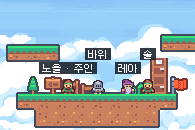
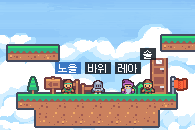
기획: 큰 토벌은 정해진 시각에 섬에 모인 사람이 출발, 섬 주인 이름표 정리
- 큰 토벌: 참가 걸기 없이 출발 시각에 섬 모임에 있는 사람 모두 (파티_상세.md 8-1, RaidB)
- 섬 손님 장면: '노을 · 주인' 대신 이름만, 주인은 파란 이름표

Claude-Session: https://claude.ai/code/session_011wjmSW2J3FkWighjJoEfMG

Changed region(s): [[0.1846, 0.3692, 0.5846, 0.5846]]

diff --git a/기획/시안/화면/RaidB.dc.html b/기획/시안/화면/RaidB.dc.html
@@ -23,16 +23,11 @@ a{color:#8CC4F5}a:hover{color:#B8DBFA}
       <svg width="22" height="22" viewBox="0 0 24 24" fill="none" stroke="currentColor" stroke-width="2" aria-hidden="true"><path d="M15 5 L8 12 L15 19"></path></svg></a>
     <div style="display: flex; flex-direction: column">
       <span style="font-family: 'Galmuri14', 'Galmuri11', sans-serif; font-size: 18px; font-weight: 700">큰 토벌 · 오늘의 기록</span>
-      <span style="font-size: 12px; color: #A7B3C2">하루 한 번 · 오늘 22:00에 모인 사람끼리 출발</span>
+      <span style="font-size: 12px; color: #A7B3C2; white-space: nowrap">노을의 섬 · 22:00에 모여 있는 사람이 출발</span>
     </div>
   </header>
 
   <main style="flex: 1; padding: 12px 14px; display: flex; flex-direction: column; gap: 10px; overflow: hidden">
-    <div role="tablist" aria-label="함께 갈 무리" style="display: grid; grid-template-columns: repeat(2, minmax(0, 1fr)); gap: 6px">
-      <sc-for list="{{groups}}" as="g" hint-placeholder-count="2">
-        <button type="button" role="tab" aria-selected="{{g.on}}" onClick="{{g.pick}}" style="min-height: 44px; border-radius: 10px; border: 2px solid {{g.border}}; background: {{g.bg}}; color: #E8EDF4; font-size: 13px; font-weight: 700; cursor: pointer; display: flex; flex-direction: column; align-items: center; justify-content: center">{{g.name}}<span style="font-size: 11px; font-weight: 400; color: #A7B3C2">{{g.sub}}</span></button>
-      </sc-for>
-    </div>
 
     <article style="background: #1A1F33; border: 1px solid #3A3F66; border-radius: 12px; padding: 12px 14px; display: flex; flex-direction: column; gap: 8px">
       <div style="display: flex; gap: 12px; align-items: center">
@@ -43,14 +38,14 @@ a{color:#8CC4F5}a:hover{color:#B8DBFA}
         </div>
       </div>
       <div style="display: grid; grid-template-columns: repeat(2, minmax(0, 1fr)); gap: 6px">
-        <div style="background: #262B48; border-radius: 8px; padding: 8px 10px; display: flex; flex-direction: column"><span style="font-size: 11px; color: #A7B3C2">{{g.name}} 최고 기록</span><span style="font-size: 16px; font-weight: 700; color: #F3D08A">{{g.best}}</span></div>
+        <div style="background: #262B48; border-radius: 8px; padding: 8px 10px; display: flex; flex-direction: column"><span style="font-size: 11px; color: #A7B3C2">최고 기록</span><span style="font-size: 16px; font-weight: 700; color: #F3D08A">{{g.best}}</span></div>
         <div style="background: #262B48; border-radius: 8px; padding: 8px 10px; display: flex; flex-direction: column"><span style="font-size: 11px; color: #A7B3C2">오늘 예상</span><span style="font-size: 16px; font-weight: 700">{{g.expect}} <span style="font-size: 12px; color: {{g.diffColor}}">{{g.diff}}</span></span></div>
       </div>
     </article>
 
     <section aria-label="오늘 참가" style="background: #151D29; border: 1px solid #263243; border-radius: 12px; padding: 10px 14px; display: flex; flex-direction: column; gap: 8px">
       <div style="display: flex; justify-content: space-between; align-items: baseline">
-        <span style="font-size: 14px; font-weight: 700">오늘 참가</span>
+        <span style="font-size: 14px; font-weight: 700">지금 섬에 모인 사람</span>
         <span style="font-size: 12px; color: #A7B3C2">{{count}} · 최대 8명</span>
       </div>
       <div style="display: grid; grid-template-columns: repeat(8, minmax(0, 1fr)); gap: 4px">
@@ -61,7 +56,7 @@ a{color:#8CC4F5}a:hover{color:#B8DBFA}
         </sc-for>
       </div>
       <button type="button" onClick="{{toggle}}" style="min-height: 46px; border-radius: 10px; border: {{btnBorder}}; background: {{btnBg}}; color: {{btnColor}}; font-size: 15px; font-weight: 700; cursor: pointer">{{btnText}}</button>
-      <span style="font-size: 12px; color: #A7B3C2; line-height: 1.5">걸어 두기만 하면 접속하지 않아도 돼요. 파티 프리셋으로 나가요.</span>
+      <span style="font-size: 12px; color: #A7B3C2; line-height: 1.5; white-space: nowrap">출발까지 2시간 14분 · 섬에 머물면 접속을 끊어도 돼요</span>
     </section>
 
     <section aria-label="기록 보상" style="background: #151D29; border: 1px solid #263243; border-radius: 12px; padding: 10px 14px; display: flex; flex-direction: column; gap: 8px">
@@ -104,13 +99,12 @@ a{color:#8CC4F5}a:hover{color:#B8DBFA}
 </x-dc>
 <script type="text/x-dc" data-dc-script data-props='{"$preview":{"width":390,"height":844}}'>
 class Component extends DCLogic {
-  constructor(props) { super(props); this.state = { g: 1, on: true, tip: -1 }; }
+  constructor(props) { super(props); this.state = { g: 0, on: true, tip: -1 }; }
   renderVals() {
     const K = '/_blob/05be44623edeece48a014d214caf38a7', R = '/_blob/c2e10fff92a559b32f281532a0025abb', W = '/_blob/65476abc18e3766f1b74c327719c3452';
     const fmt = (n) => n.toLocaleString('ko-KR');
     const G = [
-      { name: '길드', sub: '하늘등대 · 정해지면', best: 0, members: [], none: true },
-      { name: '섬 동행', sub: '노을의 섬 · 4명', best: 182400, members: [{ img: R, name: '노을' }, { img: K, name: '바위' }, { img: W, name: '레아' }] }
+            { name: '노을의 섬 모임', sub: '', best: 182400, members: [{ img: R, name: '노을' }, { img: K, name: '바위' }, { img: W, name: '레아' }] }
     ];
     const g = G[this.state.g];
     const list = g.members.concat(this.state.on ? [{ img: R, name: '나', me: true }] : []);
@@ -123,11 +117,10 @@ class Component extends DCLogic {
     ];
     const i = this.state.tip, t = raw[i] || raw[0];
     return {
-      groups: G.map((x, k) => ({ name: x.name, sub: x.sub, on: k === this.state.g, border: k === this.state.g ? '#E0A93B' : '#3A4658', bg: k === this.state.g ? '#2A2312' : '#151D29', pick: () => this.setState({ g: k }) })),
       g: { name: g.name, best: g.best ? fmt(g.best) : '아직 없음', expect: expect ? fmt(expect) : '—', diff: g.best ? ((d >= 0 ? '+' : '') + d + '%') : '', diffColor: d >= 0 ? '#6FD08C' : '#F08A8A' },
       count: list.length + ' / 8',
       seats: [0, 1, 2, 3, 4, 5, 6, 7].map((k) => list[k] ? { filled: true, img: list[k].img, name: list[k].name, border: list[k].me ? '2px solid #F2B33D' : '1px solid #3A4658', bg: '#1B2433' } : { filled: false, img: '', name: '빈자리', border: '1px dashed #3A4658', bg: 'transparent' }),
-      btnText: this.state.on ? '오늘 참가 중 · 빼기' : '오늘 참가 걸기',
+      btnText: this.state.on ? '섬에 머무는 중 · 모임에서 빠지기' : '노을의 섬으로 건너가기',
       btnBg: this.state.on ? 'transparent' : '#F2B33D', btnColor: this.state.on ? '#E8EDF4' : '#1B2735', btnBorder: this.state.on ? '1px solid #8FA3C4' : 'none',
       toggle: () => this.setState({ on: !this.state.on }),
       rewards: raw.map((r, k) => ({ label: r.label, img: r.img, on: i === k, border: i === k ? '2px solid #F2B33D' : '1px solid #263243', show: () => this.setState({ tip: k }) })),

diff --git a/기획/시안/화면/IslandGuestsB.dc.html b/기획/시안/화면/IslandGuestsB.dc.html
@@ -21,7 +21,7 @@ a{color:#8CC4F5}a:hover{color:#B8DBFA}
     <span style="font-size: 12px; color: #A7B3C2">손님 3 / 8 · 친구만 초대</span>
   </header>
 
-  <div role="img" aria-label="노을의 섬. 주인 노을과 손님 바위, 레아, 솔이 서 있다" style="position: relative; height: 260px; overflow: hidden; display: flex; justify-content: center; align-items: flex-end; flex-shrink: 0; border-radius: 0px; background: #1B2636"><div aria-hidden="true" style="position: absolute; inset: -24px; background-image: url(/_blob/51afae42c399e86afaf4be1e45d30609); background-size: cover; background-position: center bottom; filter: blur(14px) brightness(0.8); image-rendering: auto"></div><img src="/_blob/51afae42c399e86afaf4be1e45d30609" alt="" width="390" height="260" style="position: relative; display: block; flex-shrink: 0; image-rendering: pixelated"></div>
+  <div role="img" aria-label="노을의 섬. 주인 노을과 손님 바위, 레아, 솔이 서 있다" style="position: relative; height: 260px; overflow: hidden; display: flex; justify-content: center; align-items: flex-end; flex-shrink: 0; border-radius: 0px; background: #1B2636"><div aria-hidden="true" style="position: absolute; inset: -24px; background-image: url(/_blob/2968c3850f12a417b4a6330a5ecfdd8e); background-size: cover; background-position: center bottom; filter: blur(14px) brightness(0.8); image-rendering: auto"></div><img src="/_blob/2968c3850f12a417b4a6330a5ecfdd8e" alt="" width="390" height="260" style="position: relative; display: block; flex-shrink: 0; image-rendering: pixelated"></div>
   <div style="padding: 8px 14px; display: flex; flex-direction: column; gap: 2px; font-size: 12px; background: #151D29; border-bottom: 1px solid #263243"><span><span style="color: #E0A93B">노을</span> 어서 와! 차 한 잔 할래?</span><span><span style="color: #8CC4F5">레아</span> 폭풍의 벽 같이 가자</span></div>
 
   <main style="flex: 1; padding: 12px 14px; display: flex; flex-direction: column; gap: 10px; overflow: hidden">

diff --git a/기획/시안/화면/SocialB.dc.html b/기획/시안/화면/SocialB.dc.html
@@ -25,7 +25,7 @@ a{color:#8CC4F5}a:hover{color:#B8DBFA}
 
   <main style="flex: 1; padding: 12px 14px; display: flex; flex-direction: column; gap: 10px; overflow: hidden">
     <a href="IslandGuestsB.dc.html" style="position: relative; height: 112px; flex-shrink: 0; border-radius: 12px; overflow: hidden; display: block; color: #E8EDF4; text-decoration: none; background: #1B2636">
-      <img src="/_blob/51afae42c399e86afaf4be1e45d30609" alt="" width="390" height="260" style="position: absolute; left: 50%; bottom: -40px; margin-left: -195px; image-rendering: pixelated">
+      <img src="/_blob/2968c3850f12a417b4a6330a5ecfdd8e" alt="" width="390" height="260" style="position: absolute; left: 50%; bottom: -40px; margin-left: -195px; image-rendering: pixelated">
       <span style="position: absolute; left: 0; right: 0; bottom: 0; padding: 8px 12px; background: rgba(16, 22, 31, 0.85); display: flex; justify-content: space-between; align-items: center; gap: 8px">
         <span style="display: flex; flex-direction: column"><span style="font-size: 14px; font-weight: 700; white-space: nowrap">내 섬 모임 · 손님 3 / 8</span><span style="font-size: 12px; color: #A7B3C2; white-space: nowrap">바위 · 레아 · 솔 · 함께 탐사 중</span></span>
         <span style="font-size: 13px; color: #8CC4F5; white-space: nowrap">섬으로 ›</span>

diff --git a/기획/시안/화면/ExpeditionB.dc.html b/기획/시안/화면/ExpeditionB.dc.html
@@ -89,7 +89,7 @@ a{color:#8CC4F5}a:hover{color:#B8DBFA}
 
       <a href="RaidB.dc.html" style="background: #1A1F33; border: 1px solid #3A3F66; border-radius: 12px; padding: 10px 14px; display: flex; align-items: center; gap: 12px; color: #E8EDF4; text-decoration: none">
         <img src="/_blob/5919c11916a5b09d0838114c0b310e8f" alt="" width="40" height="40" style="image-rendering: pixelated">
-        <span style="display: flex; flex-direction: column; flex: 1"><span style="font-size: 14px; font-weight: 700">큰 토벌 · 오늘의 기록</span><span style="font-size: 12px; color: #A7B3C2">섬 동행 4명 참가 · 22:00 출발 · 최고 182,400</span></span>
+        <span style="display: flex; flex-direction: column; flex: 1"><span style="font-size: 14px; font-weight: 700">큰 토벌 · 오늘의 기록</span><span style="font-size: 12px; color: #A7B3C2">노을의 섬 모임 4명 · 22:00 출발</span></span>
         <span style="font-size: 13px; color: #8CC4F5">보기 ›</span>
       </a>
       <article style="background: #151D29; border: 1px solid #263243; border-radius: 12px; padding: 12px 14px; display: flex; flex-direction: column; gap: 8px">

diff --git a/기획/시안/장면/make2.py b/기획/시안/장면/make2.py
@@ -90,8 +90,10 @@ feather=Image.open('dl/496_RPG_icons/I_Feather01.png').convert('RGBA').resize((1
 s.save(OUT+'s_result.png')
 # 6 섬 손님 (이름표 포함)
 s=base(); home_island(s)
-for name,sp,x,fl in (('노을 · 주인','ranger',60,False),('바위','knight',90,False),('레아','wizard',120,False),('솔','ranger',140,True)):
-    stand(s,spr(sp),x,G,fl); tag(s,name,x+8,{'노을 · 주인':62,'바위':48,'레아':62,'솔':48}[name])
+for name,sp,x,fl,y,host in (('노을','ranger',60,False,62,True),('바위','knight',90,False,62,False),('레아','wizard',120,False,62,False),('솔','ranger',140,True,48,False)):
+    stand(s,spr(sp),x,G,fl)
+    if host: tag(s,name,x+8,y,bg=(46,110,190,235))
+    else: tag(s,name,x+8,y)
 s.save(OUT+'s_guests.png')
 # 7 프로필 (마법사)
 s=base(); home_island(s); stand(s,spr('wizard'),104,G); s.save(OUT+'s_profile.png')

diff --git a/기획/파티_상세.md b/기획/파티_상세.md
@@ -153,9 +153,9 @@
 
 | 항목 | 내용 (제안) |
 | --- | --- |
-| 함께 가는 무리 | 같은 **길드** 또는 같은 **섬 동행**([RP_교류.md](./RP_교류.md) 1-6). 무리마다 기록이 따로 남는다. 혼자도 갈 수 있다 |
-| 인원 | 1~8명. 적으면 기록이 낮을 뿐 지지 않는다 |
-| 하는 방법 | 그날 "참가"를 걸어 두면 끝이다. 정해진 시각(기본 22:00, 무리가 바꿀 수 있음)에 걸어 둔 사람끼리 자동으로 출발한다. 접속하지 않아도 되고 준비완료도 없다 |
+| 함께 가는 무리 | **섬 모임.** 정해진 시각에 그 섬에 모여 있는 사람이 함께 간다(사용자 확정 2026-11-01). 따로 참가를 걸지 않는다. 혼자도 갈 수 있다. 길드는 설계 뒤 같은 방식(길드 모임 장소)으로 붙인다 |
+| 인원 | 1~8명(섬 손님 최대 8명과 같다). 적으면 기록이 낮을 뿐 지지 않는다 |
+| 하는 방법 | 섬 주인이 출발 시각을 정한다(기본 22:00). 그 시각까지 섬에 건너와 있으면 된다. 섬에 **머물기**로 두면 접속을 끊어도 모임에 남은 것으로 친다(제안). 시각이 되면 모인 사람 모두가 자동으로 출발한다 |
 | 우두머리 | 쓰러지지 않는다. **60초 동안 준 피해의 합**이 기록이다. 구역이 열릴 때마다 우두머리가 바뀐다 |
 | 운 | 없다. 같은 사람·같은 프리셋이면 기록도 같다. 그래서 기록이 오르면 무리가 강해졌다는 뜻이고, 이것이 매일 보는 성장 표시가 된다 |
 | 표시 | 무리 최고 기록, 오늘 예상 기록과 차이(%), 각자의 몫 |
@@ -166,7 +166,7 @@
 - 화면 시안: `RaidB` (원정 탭 → 던전 → 큰 토벌).
 - 남은 쟁점:
   1. **길드는 아직 설계하지 않았다.** 인원, 만들기·가입 방법, 섬 동행과의 관계를 정해야 한다.
-  2. 한 사람이 길드와 동행 양쪽에 있으면 하루 한 번을 어느 쪽에 쓸지(제안: 하루 한 무리만 고름)
+  2. 하루 한 번은 사람 기준이다. 22:00 전에 다른 섬 모임으로 이미 다녀왔으면 이 섬에서는 기록에만 남고 보상은 없다(제안).
   3. 기록 대비 보상 비율(시안: 기록 2만당 구름 수정 1개)은 전체 수치 조정 때 정한다. 인원이 많을수록 기록이 커지므로 혼자·소수로 가는 사람이 손해 보지 않게 할지도 본다.
 
 ## 9. 서버가 필요한 부분
@@ -200,3 +200,4 @@
 - 2026-11-01: 사용자 결정에 따라 관문은 1~4인으로 두고, 8인 매칭 큰 토벌을 추가했다(8-1).
 - 2026-11-01: 사용자 결정에 따라 큰 토벌을 8인 매칭에서 "하루 한 번 기록 경신, 길드나 섬 동행끼리"로 바꿨다.
 - 2026-11-01: 큰 토벌 보상을 "기록만큼, 무리 모두 같게"로 바꾸고 경신·단계 보상을 없앴다(사용자 결정).
+- 2026-11-01: 큰 토벌 참가 방식을 "참가 걸기"에서 "정해진 시각에 섬에 모여 있는 사람"으로 바꿨다(사용자 결정).

diff --git a/기획/RP_교류.md b/기획/RP_교류.md
@@ -84,7 +84,7 @@
 - **섬에 모인 사람이 곧 파티 후보다.** 섬 화면의 "이 섬 모임으로"에서 바로 고른다.
   - 함께 탐사(동행): 최대 4명
   - 관문 도전: 모인 사람 중 4명을 골라 출발(관문 규칙은 [파티_상세.md](./파티_상세.md) 그대로)
-  - 큰 토벌: 모인 사람 모두(최대 8명) 참가 걸기
+  - 큰 토벌: 출발 시각(기본 22:00)에 섬에 모여 있는 사람 모두(최대 8명)
 - 섬 손님 최대 8명(1-5)과 큰 토벌 최대 8명이 같아서 맞물린다.
 - **모르는 사람과의 파티**는 지금처럼 관문 모집 목록과 자동매칭으로 한다. 이것은 섬을 거치지 않는다(빠르게 출발하는 길).
 - 섬을 떠나도 맺은 동행은 유지된다(1-6). 섬은 모이는 곳이고, 함께하는 활동은 각자 이어진다.
